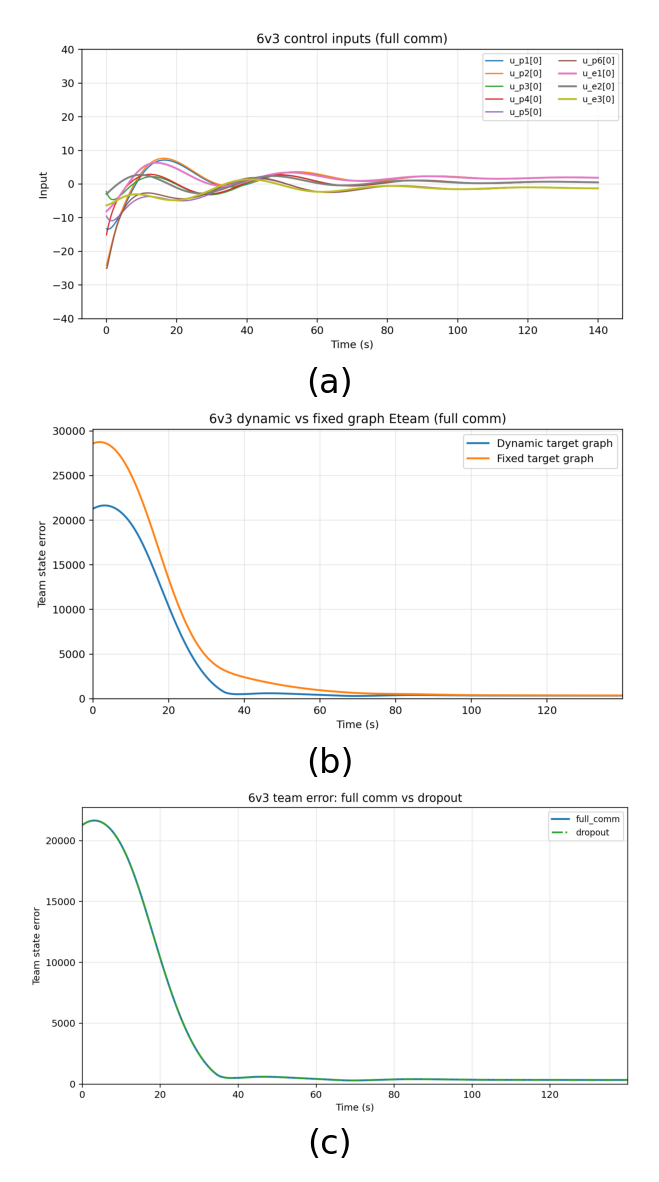
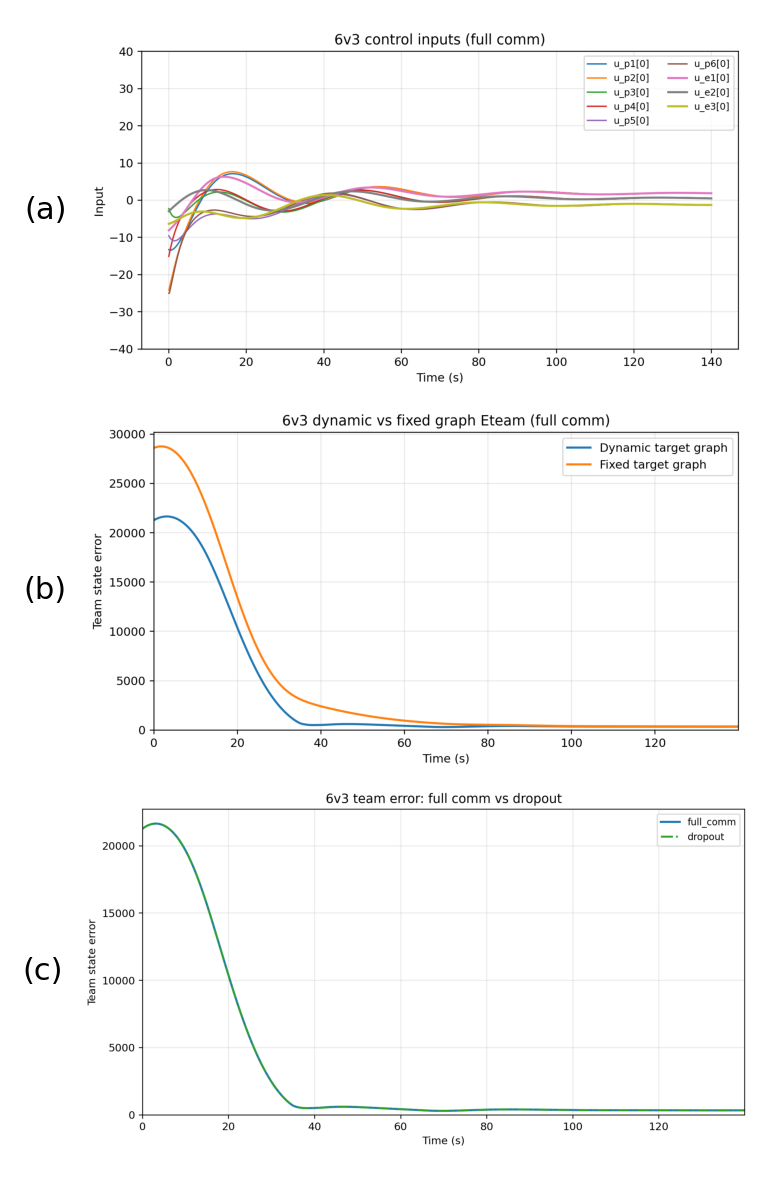
refactor: left-side (a)(b)(c) labels, split collision fig into 2+1
- All subfigure labels moved to left center, normal font (not bold)
- Collision fig: (a)(b) side by side on top, (c) below
- Update tex captions and text to reference (a)(b)(c) panels
- Both EN and CN papers updated

diff --git a/mpe_game/repro_vsnac_mpe_comm/PAPER_COMM_VSNAC.tex b/mpe_game/repro_vsnac_mpe_comm/PAPER_COMM_VSNAC.tex
@@ -256,12 +256,12 @@ $d_{\min}$ (km) & 0.00 & 1.09 & 1.31 & 1.42 & 1.50 & 1.52 \\
 Table~\ref{tab:collision} shows that without coordination the pursuers collide, while any positive $\gamma$ immediately establishes safe separation. The monotonic increase saturates around $\gamma = 5$, as the $\tanh$ bound limits the maximum deflection from the tracking-optimal path.
 
 \begin{figure}[htbp]
-\centerline{\includegraphics[width=\linewidth]{paper_figures/fig_collision_comparison.png}}
-\caption{Controlled scenario demonstrating coordination effectiveness. Left: without communication ($\gamma{=}0$), pursuer paths physically cross, producing a collision ($d_{\min} \approx 0$). Middle: with communication ($\gamma{=}5$), the coordination potential drives early lateral separation. Right: inter-pursuer distance over time confirming collision avoidance.}
+\centerline{\includegraphics[width=\linewidth]{paper_figures/fig_collision_split.png}}
+\caption{Controlled scenario demonstrating coordination effectiveness. (a)~Without communication ($\gamma{=}0$), pursuer paths physically cross, producing a collision ($d_{\min} \approx 0$). (b)~With communication ($\gamma{=}5$), the coordination potential drives early lateral separation. (c)~Inter-pursuer distance over time confirming collision avoidance; the red line marks $d_{\mathrm{safe}}$.}
 \label{fig:collision}
 \end{figure}
 
-Fig.~\ref{fig:collision} visualizes this effect. The left panel shows the crossing trajectories under $\gamma = 0$ where both pursuers pass through the same spatial region; the middle panel shows the coordinated separation under $\gamma = 5$; the right panel plots the inter-pursuer distance over time, confirming that coordination prevents collision throughout the engagement.
+Fig.~\ref{fig:collision} visualizes this effect. Panel~(a) shows the crossing trajectories under $\gamma = 0$ where both pursuers pass through the same spatial region; panel~(b) shows the coordinated separation under $\gamma = 5$; panel~(c) plots the inter-pursuer distance over time, confirming that coordination maintains $d_{\min}$ above $d_{\mathrm{safe}}$ throughout the engagement.
 
 \subsection{Six-Pursuer-Three-Evader Analysis}
 

diff --git a/mpe_game/repro_vsnac_mpe_comm/PAPER_COMM_VSNAC_CN.tex b/mpe_game/repro_vsnac_mpe_comm/PAPER_COMM_VSNAC_CN.tex
@@ -391,15 +391,15 @@ $d_{\min}$ (km) & 0.00 & 1.09 & 1.31 & 1.42 & 1.50 & 1.52 \\
 单调递增在$\gamma = 5$附近饱和，因为$\tanh$约束限制了偏离追踪最优路径的最大幅度。
 
 \begin{figure}[htbp]
-\centerline{\includegraphics[width=\linewidth]{paper_figures/fig_collision_comparison.png}}
-\caption{受控场景验证协调有效性。左：无通信（$\gamma{=}0$）时追逐者路径物理交叉，产生碰撞（$d_{\min} \approx 0$）。中：有通信（$\gamma{=}5$）时协调势驱动早期横向分离。右：追逐者间距时间曲线，确认碰撞避免。}
+\centerline{\includegraphics[width=\linewidth]{paper_figures/fig_collision_split.png}}
+\caption{受控场景验证协调有效性。(a)~无通信（$\gamma{=}0$）时追逐者路径物理交叉，产生碰撞（$d_{\min} \approx 0$）。(b)~有通信（$\gamma{=}5$）时协调势驱动早期横向分离。(c)~追逐者间距时间曲线，红线标注$d_{\mathrm{safe}}$，确认碰撞避免。}
 \label{fig:collision}
 \end{figure}
 
 图~\ref{fig:collision}可视化了这一效果。
-左图显示$\gamma = 0$下追逐者路径穿过同一空间区域；
-中图显示$\gamma = 5$下的协调分离效果；
-右图绘制了追逐者间距随时间的变化，确认协调在整个过程中防止碰撞。
+(a)显示$\gamma = 0$下追逐者路径穿过同一空间区域；
+(b)显示$\gamma = 5$下的协调分离效果；
+(c)绘制了追逐者间距随时间的变化，确认协调将$d_{\min}$维持在$d_{\mathrm{safe}}$以上。
 
 \subsection{六追三场景分析}
 
